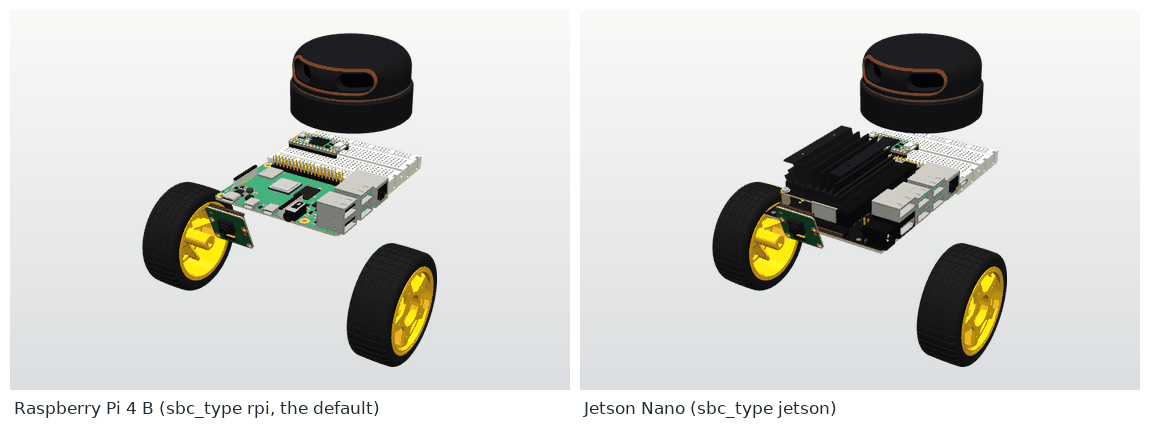
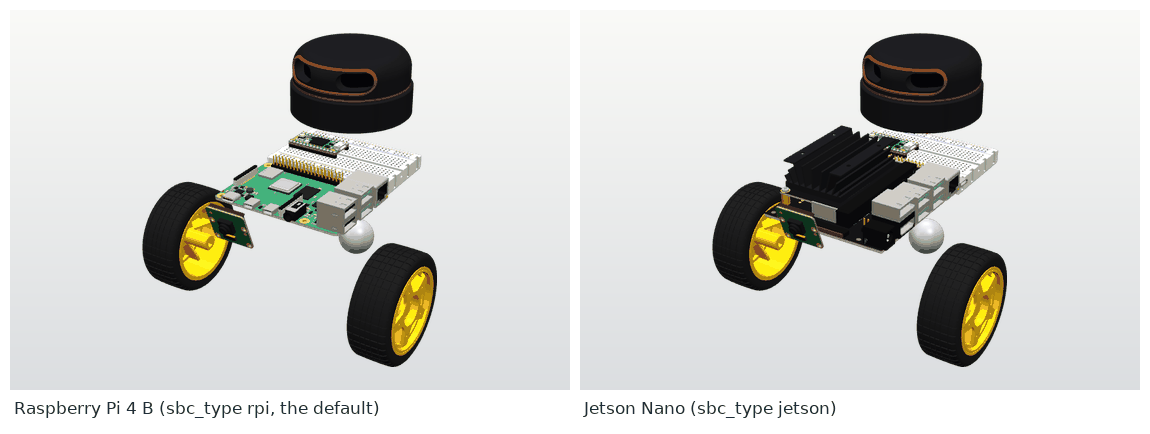
README: the release the clone needs, where the download runs, the caster's ball
The clone of robot_component_models works with the package's release, which
isn't out yet. A note above the command and the comment in remo_robot.repos
say so. The steps for the STL files say where the configuration file goes and
change into the package's folder before the download script. The picture of
the public model also has the rear caster's ball, which the model draws as a
sphere.

diff --git a/README.md b/README.md
@@ -15,11 +15,15 @@ Remo's model takes the meshes of its parts from two places:
 
 ### Purchased parts: robot_component_models
 
-[robot_component_models](https://github.com/ros-mobile-robots/robot_component_models) has display models of off-the-shelf robot components, made from public datasheets, drawings and photos. Remo uses its COLLADA files (`.dae`), which are in metres and have their own colours. With this package in the workspace and without the STL mesh files, RViz and Gazebo show the seven parts at their places on the robot. The picture shows them with the Raspberry Pi 4 B and with the Jetson Nano:
+[robot_component_models](https://github.com/ros-mobile-robots/robot_component_models) has display models of off-the-shelf robot components, made from public datasheets, drawings and photos. Remo uses its COLLADA files (`.dae`), which are in metres and have their own colours. With this package in the workspace and without the STL mesh files, RViz and Gazebo show the seven parts at their places on the robot, and the ball of the rear caster, which the model draws as a sphere without a mesh. The picture shows them with the Raspberry Pi 4 B and with the Jetson Nano:
 
-![Remo's seven purchased parts at their places, without the 3D printed parts](docs/images/public_checkout.png)
+![Remo's seven purchased parts and the caster's ball at their places, without the 3D printed parts](docs/images/public_checkout.png)
 
-`remo_description` depends on the package, so add the package before you run `rosdep install` and build the workspace. From the workspace's root, these commands clone the package next to `remo_description`, build the workspace and source it again:
+`remo_description` depends on the package, so add the package before you run `rosdep install` and build the workspace.
+
+> **Note:** the commands below need a release of robot_component_models with the seven mesh files listed further down. That release isn't out yet, and the package's `main` branch has no meshes, so ROS doesn't find the package in a clone of `main`. With the release, the clone command names the release's tag.
+
+From the workspace's root, these commands clone the package next to `remo_description`, build the workspace and source it again:
 
 ```bash
 git clone https://github.com/ros-mobile-robots/robot_component_models.git src/robot_component_models
@@ -64,10 +68,11 @@ This repository does not include the STL mesh files due to size and licensing.
 To obtain the mesh files:
 
 1. [Purchase / Register](https://fjp.gumroad.com/l/GnMpU)
-2. Download the provided `stl_download_config.yaml`
-3. Run:
+2. Download the provided `stl_download_config.yaml` and put the file into the `remo_description` folder, next to this README
+3. Run the download script in that folder. The script reads the file from the folder it runs in and writes the mesh files below that folder. From the workspace's root:
 
 ```bash
+cd src/remo_description
 pip install pyyaml requests
 python3 scripts/download_assets.py
 ```
